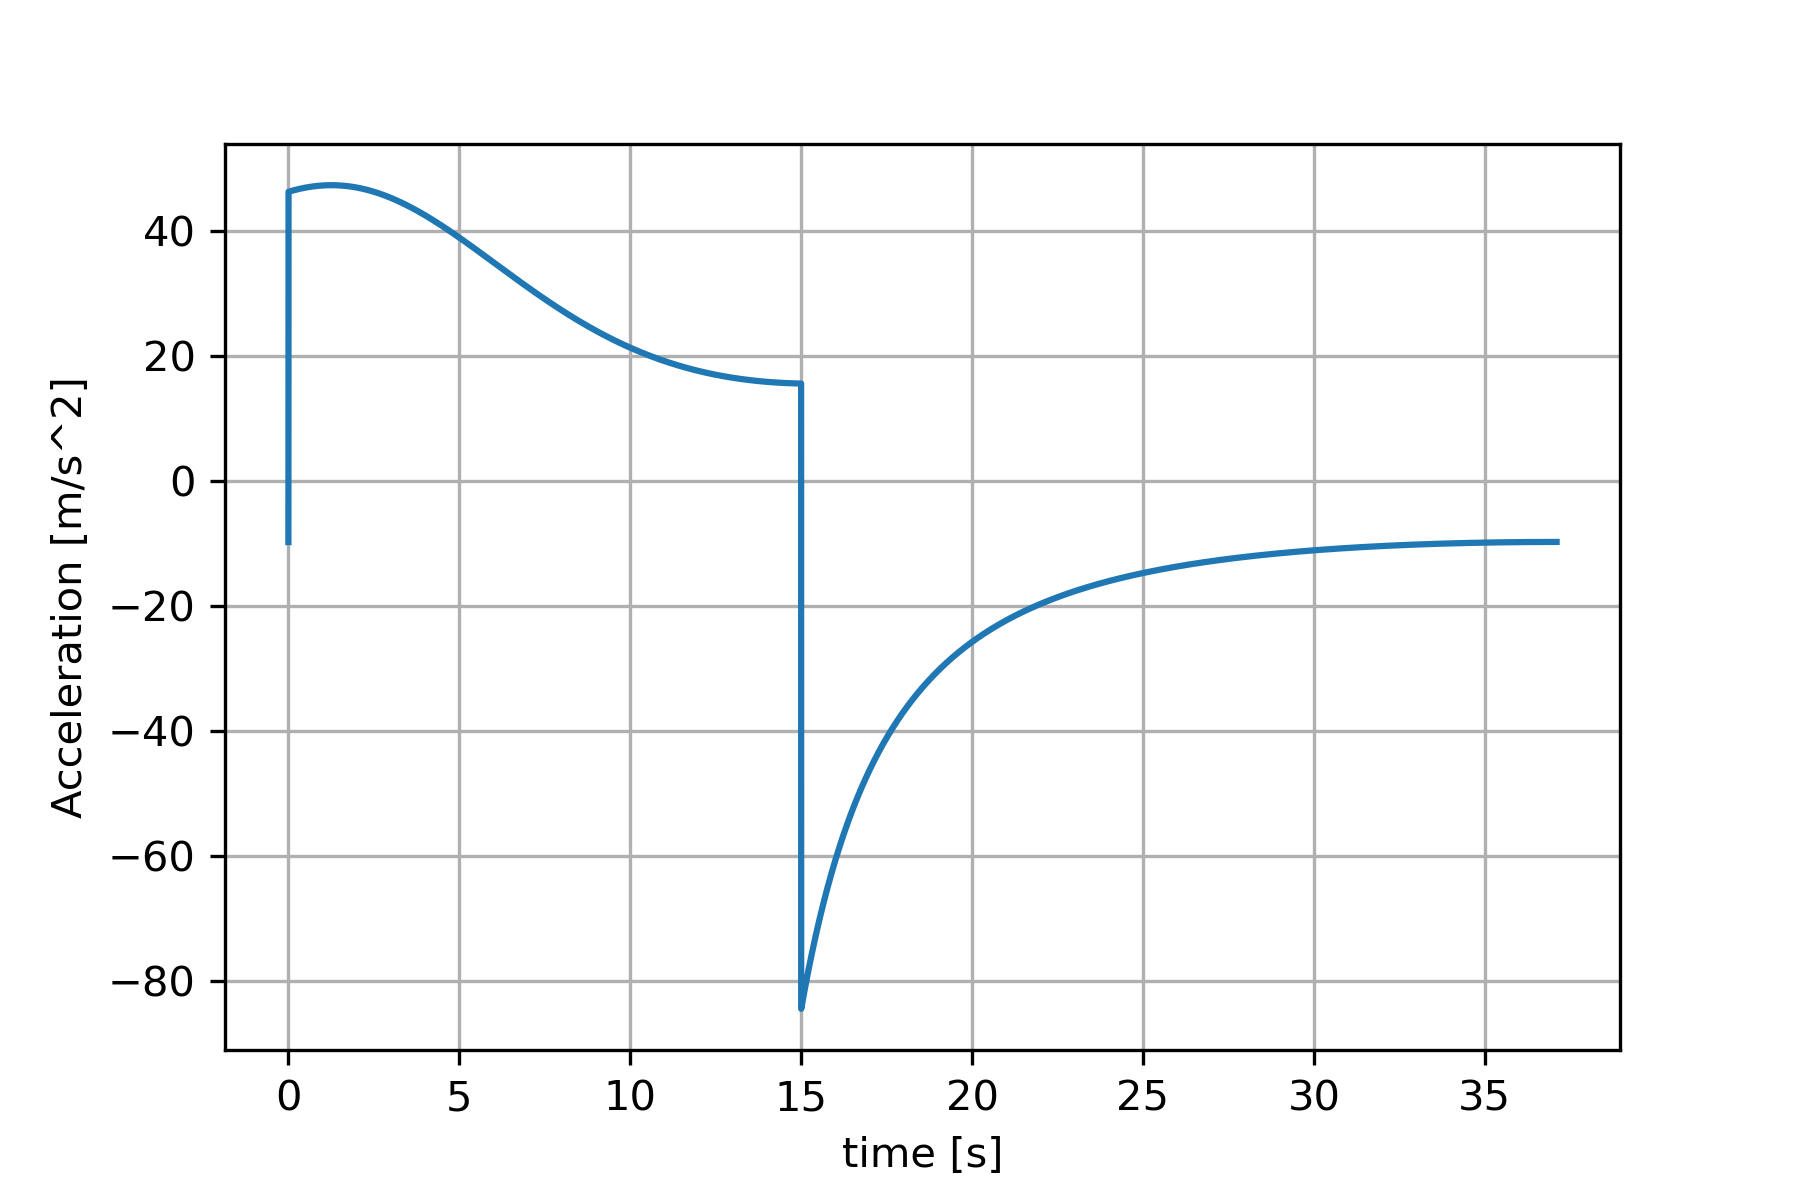
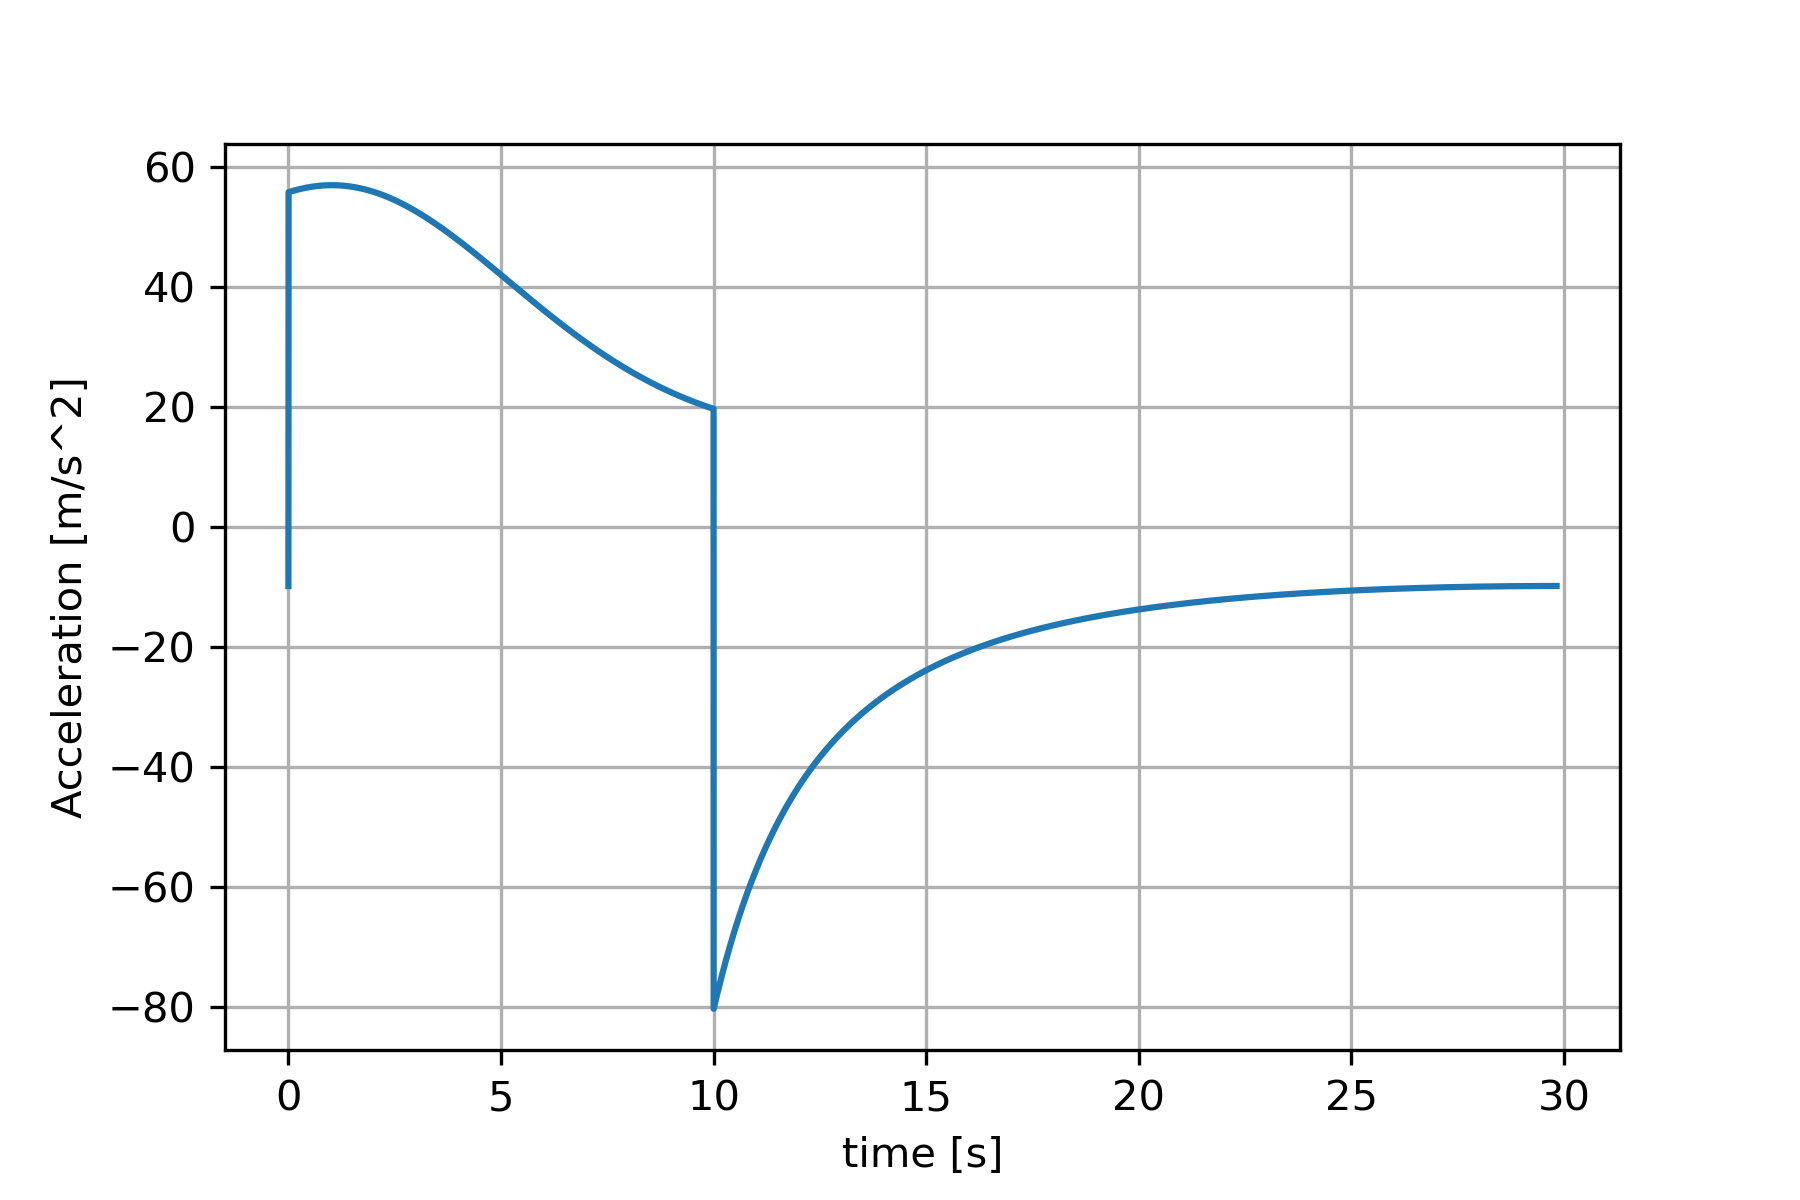
Updated sims for 10s burn, 15kg structural mass

diff --git a/Trajectory/LaunchSim_00.py b/Trajectory/LaunchSim_00.py
@@ -25,7 +25,9 @@ def density(h):
     L = 0.0065      #temperature lapse rate K/m
     R = 8.31446     #Universal Gas Constant
     M = 0.0289652   #kg/mol (molar mass of dry air)
-    rho = ((p0*M)/(R*T0))*(1-L*h/T0)**(((g0*M)/(R*L))-1)
+    
+    hs = 125        #Start height above sea level, m
+    rho = ((p0*M)/(R*T0))*(1-L*(h+hs)/T0)**(((g0*M)/(R*L))-1)
     return rho
     
     
@@ -107,8 +109,9 @@ ms = 15         #kg
 s = np.pi*(.075**2)
 Cd = 0.75
 
-burn_time = 15  #s 
+burn_time = 10  #s 
 dt = 0.002 #time step, s
+
 
 #tb, mdot, ms, Ft, s, Cd, dt
 m,h,v,a,F,rho,t = solver(burn_time, mdot, ms, thrust, s, Cd, dt)
